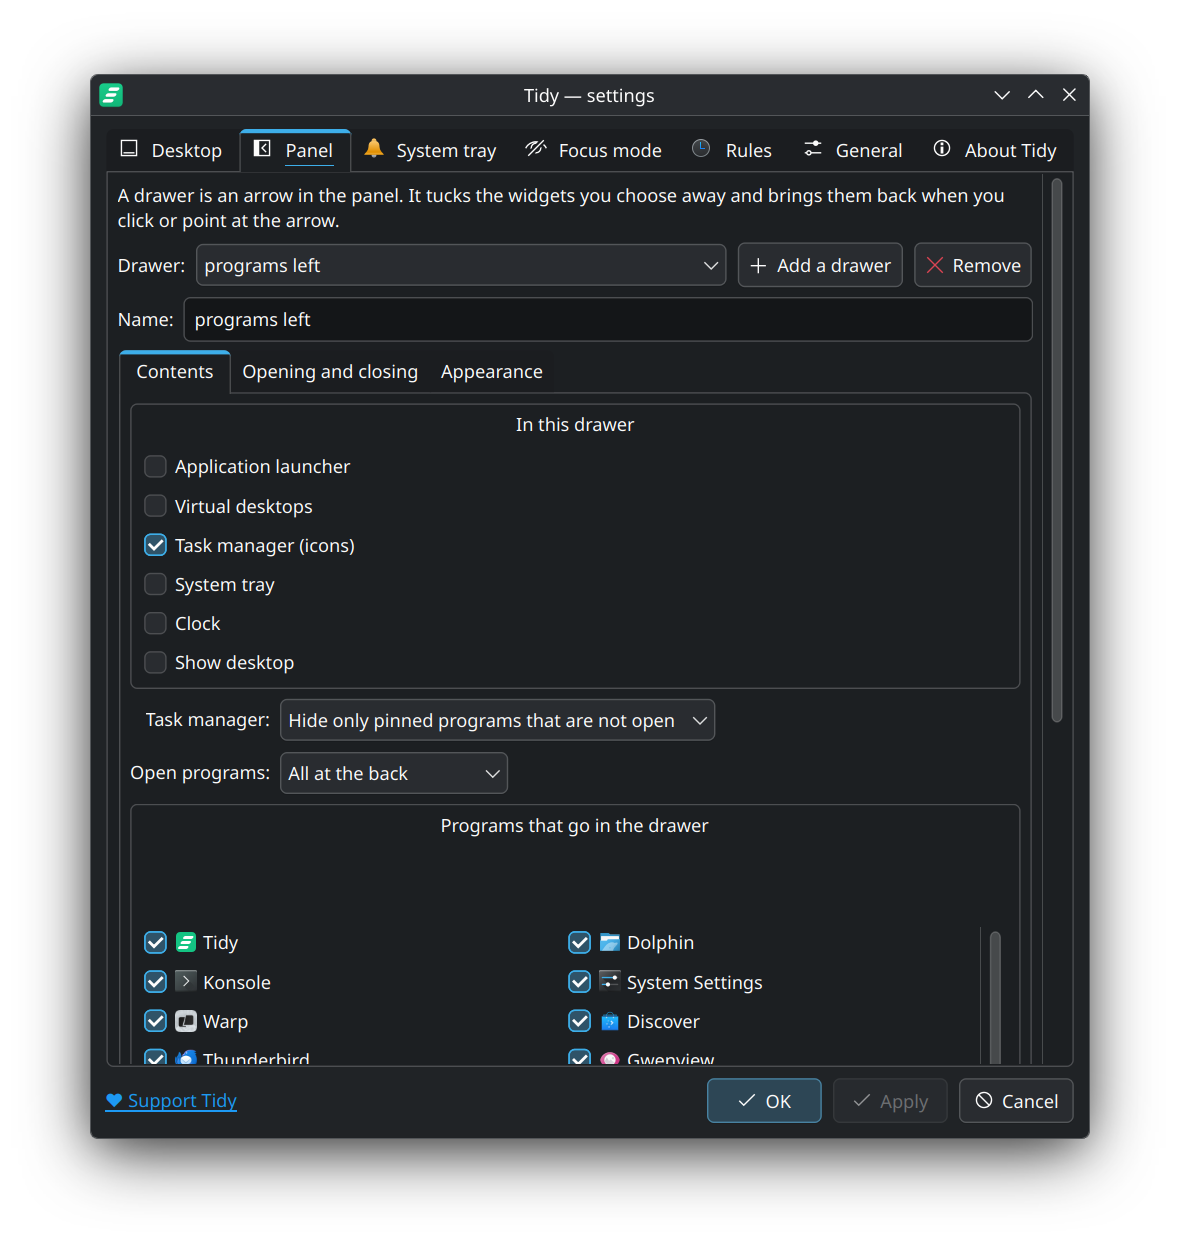
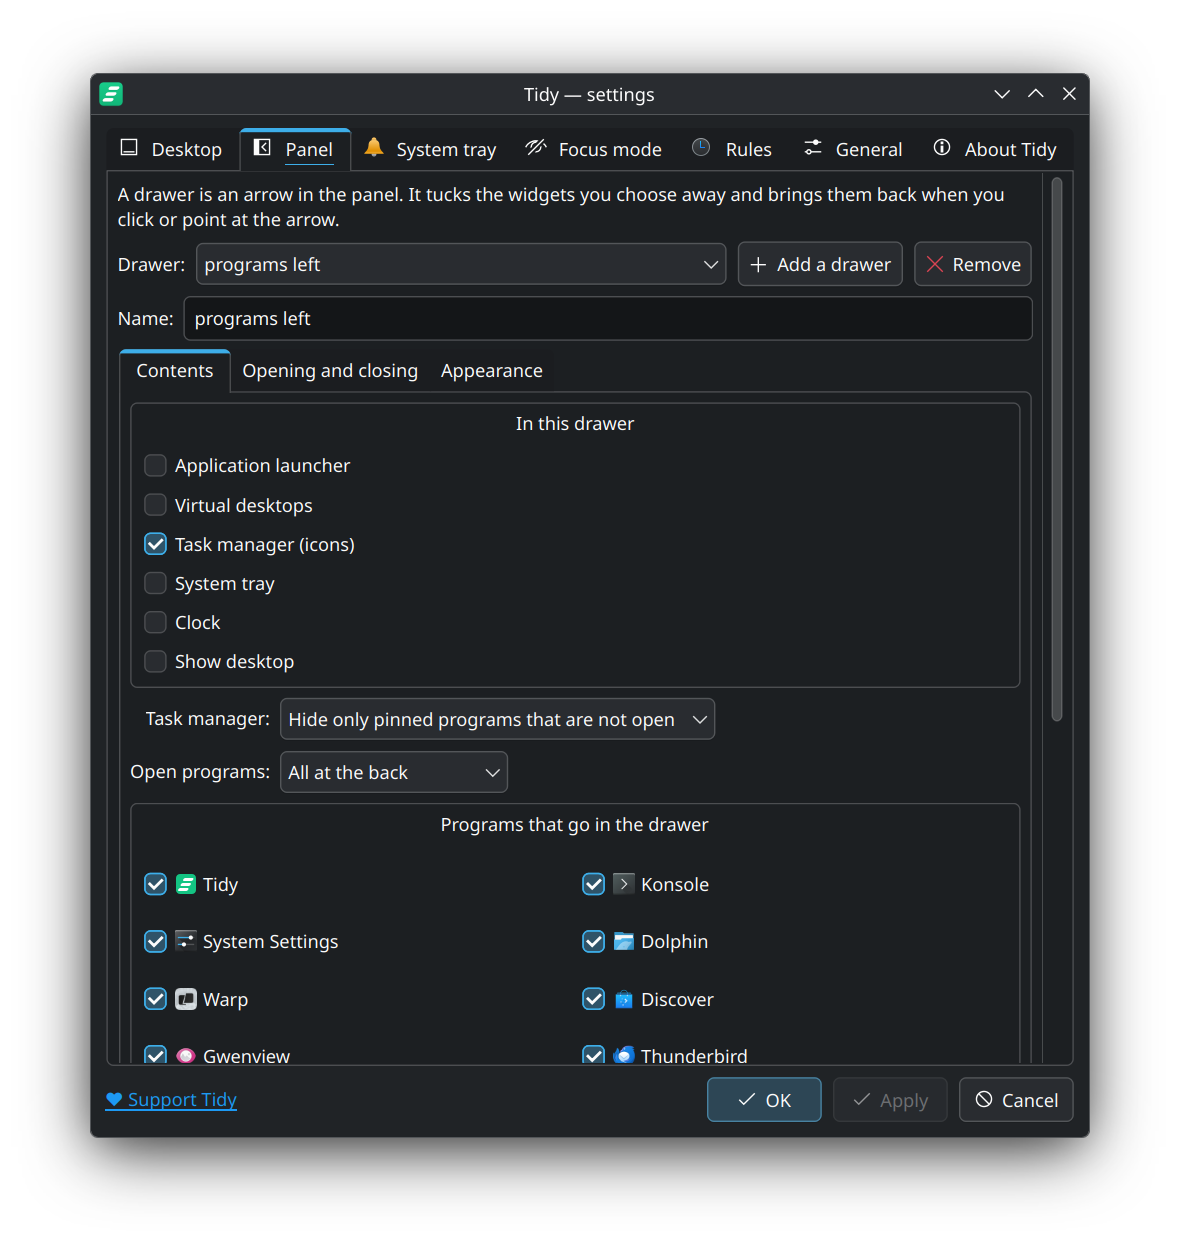
Let a drawer's list of programs fill its box

diff --git a/src/plasma_tidy/drawer_ui.py b/src/plasma_tidy/drawer_ui.py
@@ -114,11 +114,10 @@ class DrawerPage(QWidget):
                 check.setChecked(program["id"] not in config["taskKeep"])
                 self.programs[program["id"]] = check
                 grid.addWidget(check, index // 2, index % 2)
-            area = QScrollArea(widgetResizable=True)
-            area.setFrameShape(QFrame.Shape.NoFrame)
-            area.setWidget(inner)
-            area.setMaximumHeight(min(inner.sizeHint().height() + 8, 150))
-            box_layout.addWidget(area)
+            # The whole list where there is room for it; in less, three rows and scrolling.
+            rows = max(1, grid.rowCount())
+            tall = inner.sizeHint().height()
+            box_layout.addWidget(TallArea(inner, least=min(tall, tall * 3 // rows + 4)))
         else:
             note = QLabel(tr("The programs of the task manager appear here a moment after the "
                              "drawer has one in it. Open this window again to see them."))
@@ -482,8 +481,9 @@ class DrawerPage(QWidget):
 class TallArea(QScrollArea):
     """Asks for the room its contents take, and scrolls them in a window that has less."""
 
-    def __init__(self, inside):
+    def __init__(self, inside, least=240):
         super().__init__(widgetResizable=True)
+        self.least = least
         self.setFrameShape(QFrame.Shape.NoFrame)
         self.setHorizontalScrollBarPolicy(Qt.ScrollBarPolicy.ScrollBarAlwaysOff)
         self.setWidget(inside)
@@ -495,7 +495,7 @@ class TallArea(QScrollArea):
 
     def minimumSizeHint(self):
         bar = self.verticalScrollBar().sizeHint().width()
-        return QSize(self.widget().minimumSizeHint().width() + bar, 240)
+        return QSize(self.widget().minimumSizeHint().width() + bar, self.least)
 
 
 class DrawerTab(QWidget):

diff --git a/CHANGELOG.md b/CHANGELOG.md
@@ -47,7 +47,8 @@ The first version meant for others. Since 0.2.0:
 - Tidy's own icon: three slanted bars on a green tile, for the menu, Discover and the windows,
   and a one-colour version in the system tray that follows the theme, with its own look when
   the icons are hidden.
-- The settings window fits a low screen: the Panel tab scrolls where it has no room.
+- The settings window fits a low screen: the Panel tab scrolls where it has no room. The
+  list of programs of a drawer fills its box, without an empty strip or half a row.
 
 **Under the hood**
 - Lighter: about 24 MB of memory, no processor time at rest.
